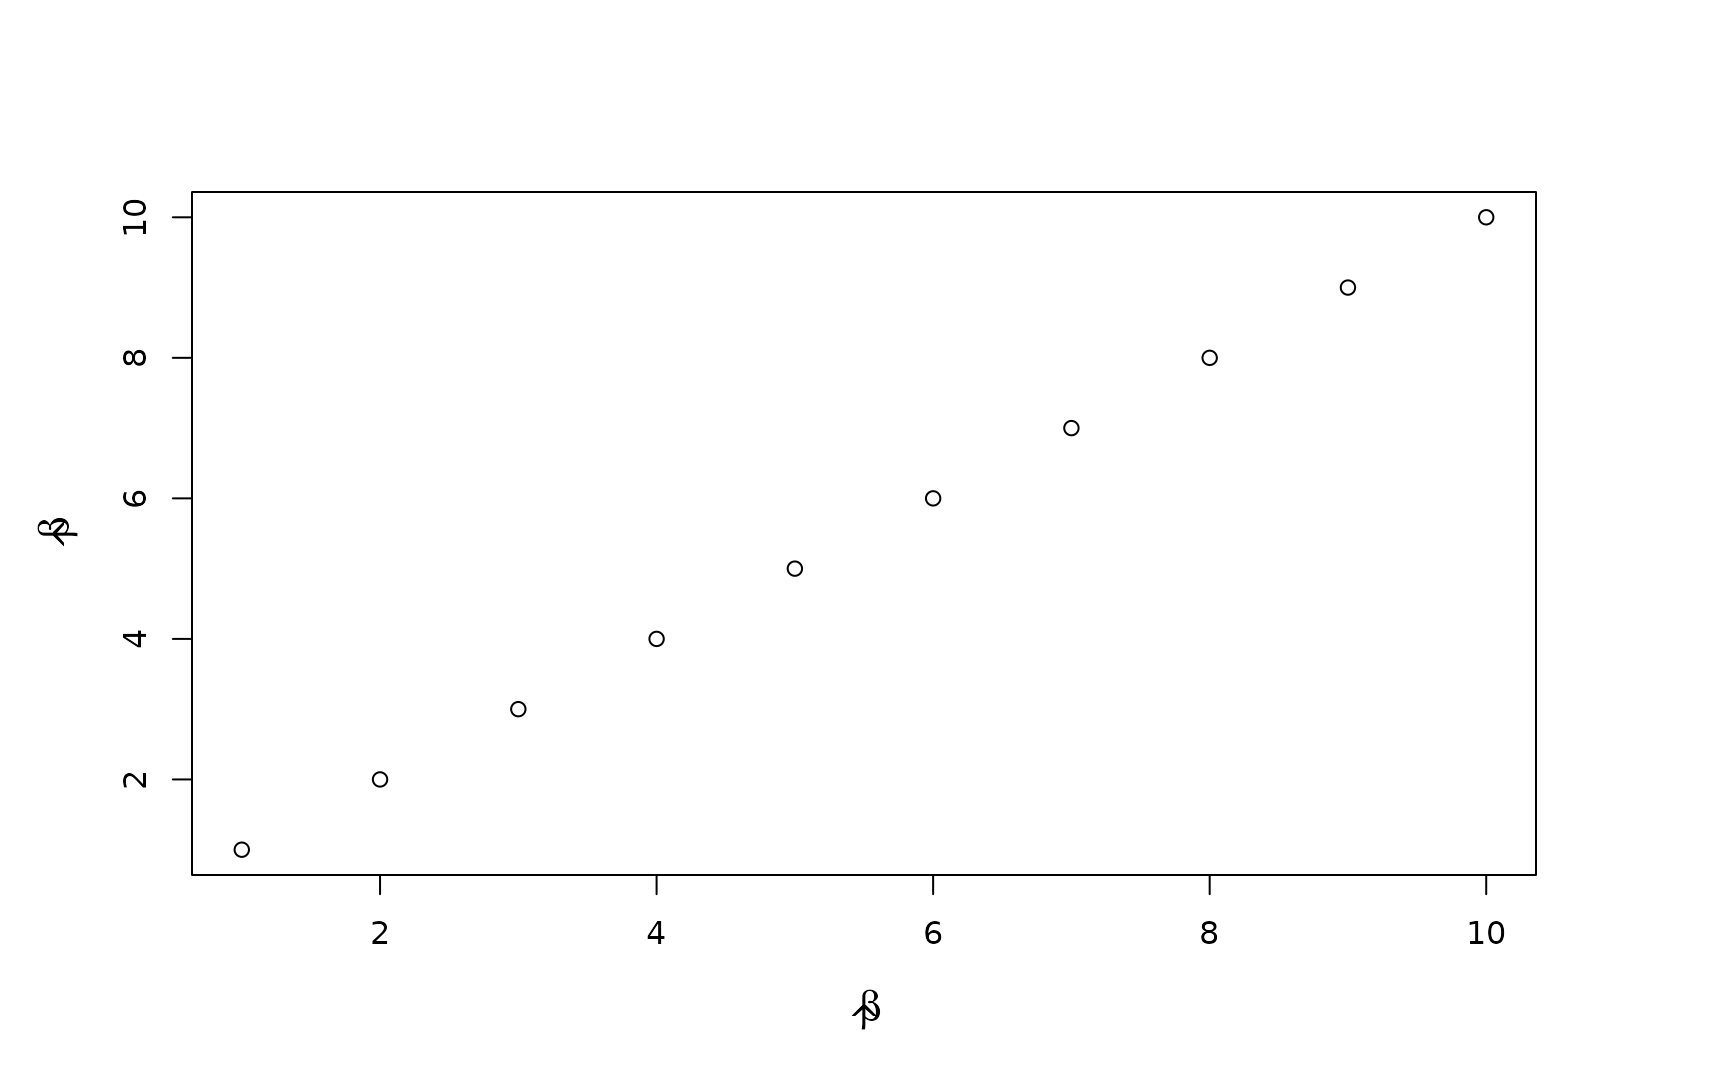
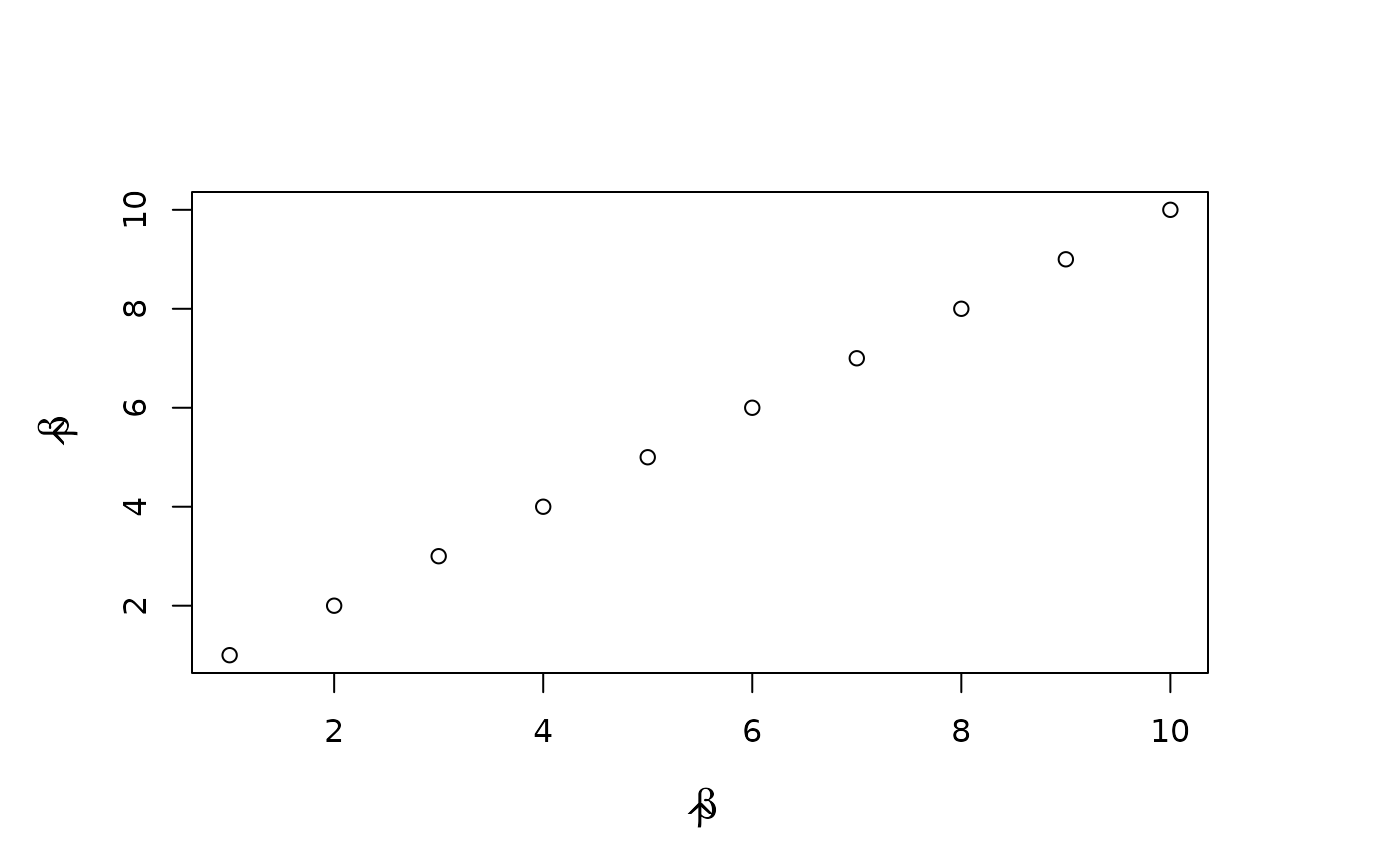
Deploying to gh-pages from @ remlapmot/mytestpackage1@0ea41de825423af21c2fe8a60c3356250bc4cfcf 🚀

diff --git a/articles/example.html b/articles/example.html
@@ -119,12 +119,12 @@
 <span><span class="fu">draw.plotmath.cell</span><span class="op">(</span><span class="fu"><a href="https://rdrr.io/r/base/expression.html" class="external-link">expression</a></span><span class="op">(</span><span class="fu"><a href="https://rdrr.io/r/base/Extremes.html" class="external-link">min</a></span><span class="op">(</span><span class="fu">g</span><span class="op">(</span><span class="va">x</span><span class="op">)</span>, <span class="va">x</span> <span class="op">&gt;=</span> <span class="fl">0</span><span class="op">)</span><span class="op">)</span>, <span class="va">i</span>, <span class="va">nr</span><span class="op">)</span>; <span class="va">i</span> <span class="op">&lt;-</span> <span class="va">i</span> <span class="op">+</span> <span class="fl">1</span></span>
 <span><span class="fu">draw.plotmath.cell</span><span class="op">(</span><span class="fu"><a href="https://rdrr.io/r/base/expression.html" class="external-link">expression</a></span><span class="op">(</span><span class="fu">inf</span><span class="op">(</span><span class="va">S</span><span class="op">)</span><span class="op">)</span>, <span class="va">i</span>, <span class="va">nr</span><span class="op">)</span>; <span class="va">i</span> <span class="op">&lt;-</span> <span class="va">i</span> <span class="op">+</span> <span class="fl">1</span></span>
 <span><span class="fu">draw.plotmath.cell</span><span class="op">(</span><span class="fu"><a href="https://rdrr.io/r/base/expression.html" class="external-link">expression</a></span><span class="op">(</span><span class="fu">sup</span><span class="op">(</span><span class="va">S</span><span class="op">)</span><span class="op">)</span>, <span class="va">i</span>, <span class="va">nr</span><span class="op">)</span>; <span class="va">i</span> <span class="op">&lt;-</span> <span class="va">i</span> <span class="op">+</span> <span class="fl">1</span></span></code></pre></div>
-<p><img src="example_files/figure-html/unnamed-chunk-2-1.png" width="864"></p>
+<p><img src="example_files/figure-html/unnamed-chunk-2-1.png" width="700"></p>
 <p>Another example plot.</p>
 <div class="sourceCode" id="cb2"><pre class="downlit sourceCode r">
 <code class="sourceCode R"><span><span class="fu"><a href="https://rdrr.io/r/graphics/par.html" class="external-link">par</a></span><span class="op">(</span>mar <span class="op">=</span> <span class="fu"><a href="https://rdrr.io/r/base/c.html" class="external-link">c</a></span><span class="op">(</span><span class="fl">5</span>, <span class="fl">5</span>, <span class="fl">5</span>, <span class="fl">5</span><span class="op">)</span>, cex.lab <span class="op">=</span> <span class="fl">1.3</span><span class="op">)</span></span>
 <span><span class="fu"><a href="https://rdrr.io/r/graphics/plot.default.html" class="external-link">plot</a></span><span class="op">(</span><span class="fl">1</span><span class="op">:</span><span class="fl">10</span>, xlab <span class="op">=</span> <span class="fu"><a href="https://rdrr.io/r/base/expression.html" class="external-link">expression</a></span><span class="op">(</span><span class="fu"><a href="https://rdrr.io/r/stats/influence.measures.html" class="external-link">hat</a></span><span class="op">(</span><span class="va">beta</span><span class="op">)</span><span class="op">)</span>, ylab <span class="op">=</span> <span class="fu"><a href="https://rdrr.io/r/base/expression.html" class="external-link">expression</a></span><span class="op">(</span><span class="fu"><a href="https://rdrr.io/r/stats/influence.measures.html" class="external-link">hat</a></span><span class="op">(</span><span class="va">beta</span><span class="op">)</span><span class="op">)</span><span class="op">)</span></span></code></pre></div>
-<p><img src="example_files/figure-html/unnamed-chunk-3-1.png" width="864"></p>
+<p><img src="example_files/figure-html/unnamed-chunk-3-1.png" width="700"></p>
   </main>
 </div>
 
